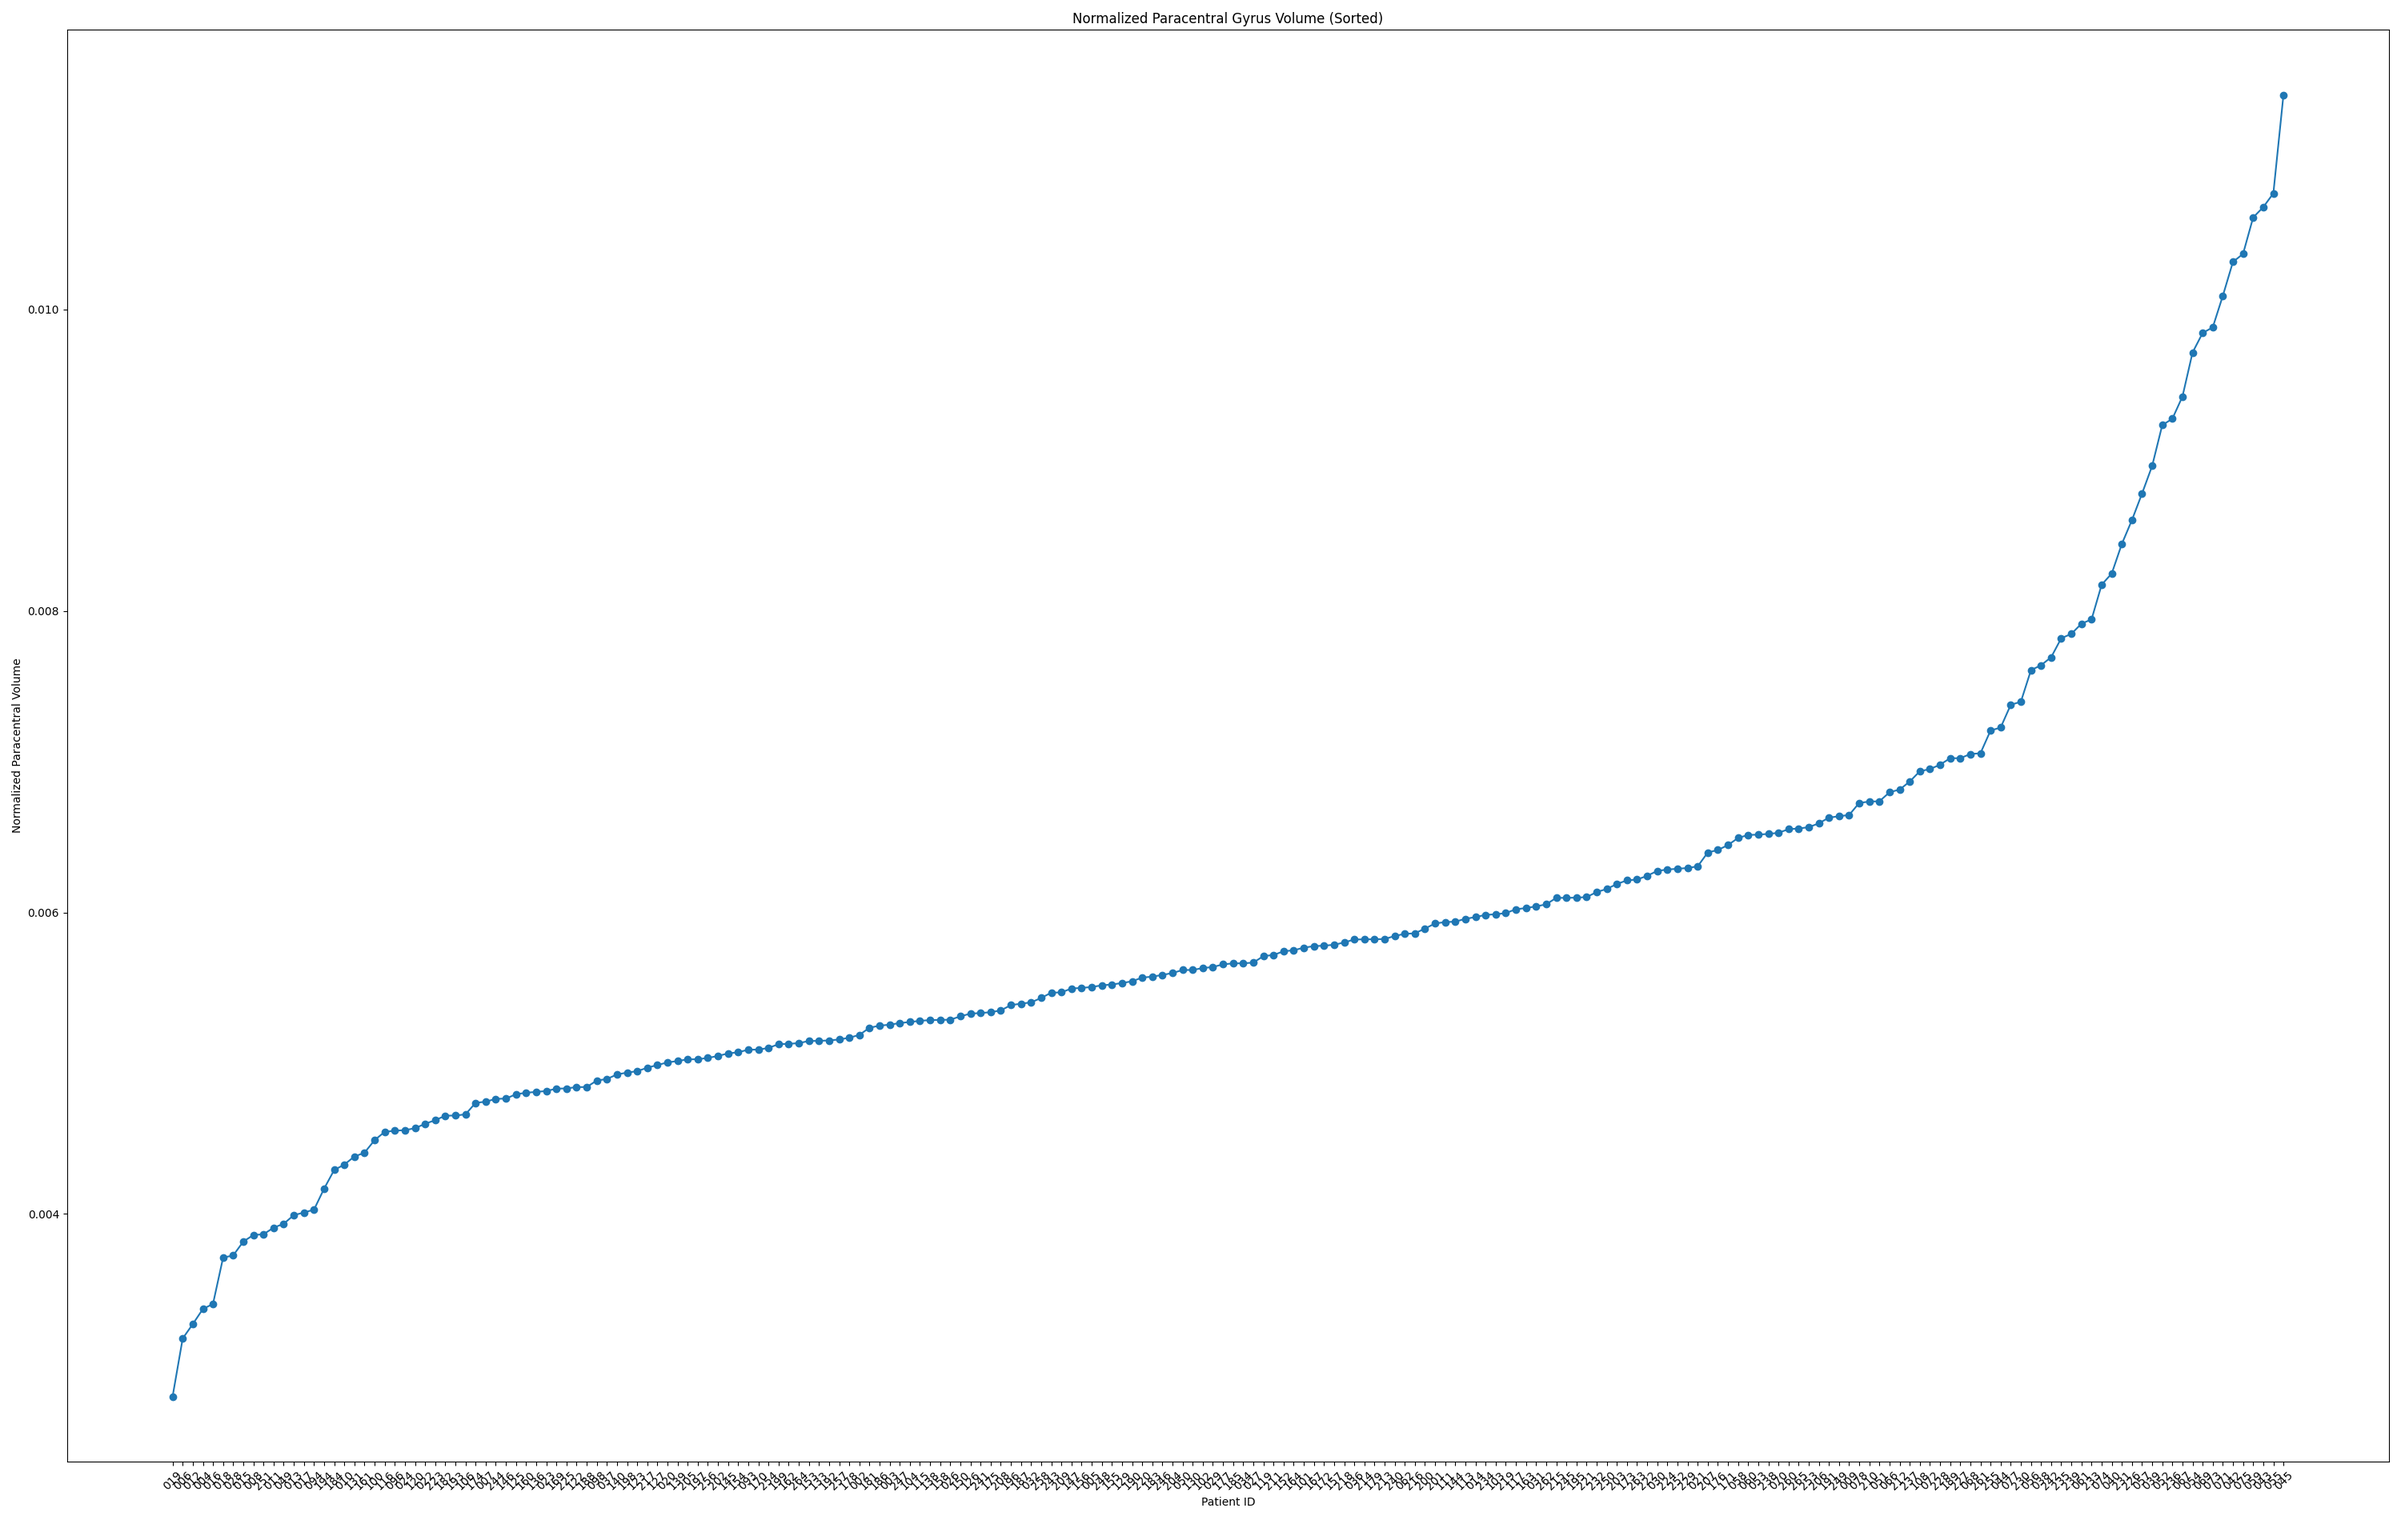
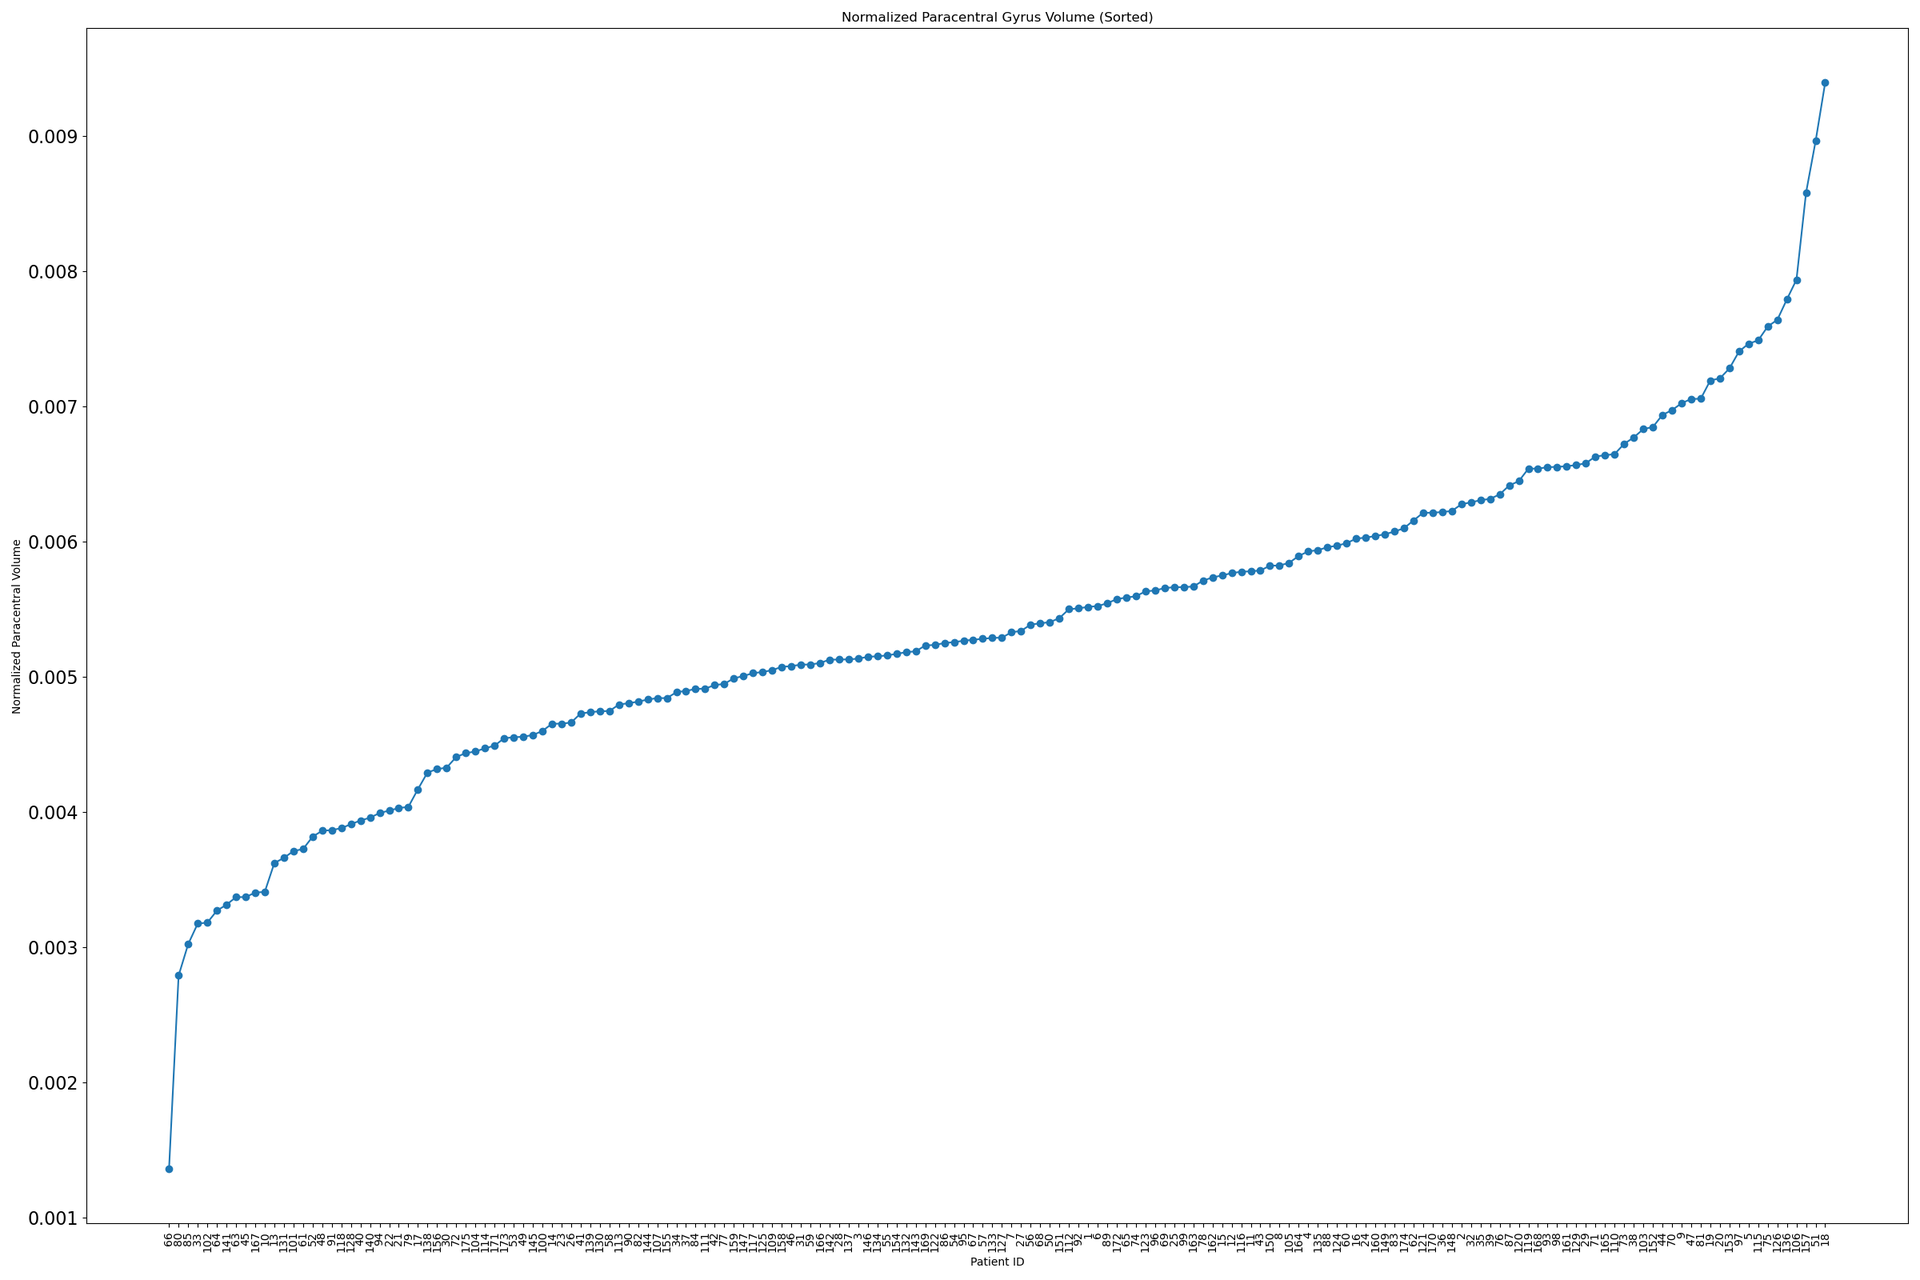
Update v1.4

diff --git a/code/visualisation_scripts/Volume_analysis.py b/code/visualisation_scripts/Volume_analysis.py
@@ -1,0 +1,101 @@
+import os
+import re
+import csv
+import matplotlib.pyplot as plt
+
+def extract_data(file_path):
+    # Initialize variables to store extracted values
+    paracentral_vol = None
+    precentral_vol = None
+    etiv = None
+
+    # Read the file and extract the needed values
+    with open(file_path, 'r') as f:
+        for line in f:
+            if 'paracentral' in line:
+                paracentral_vol = float(line.split()[3])
+            elif 'precentral' in line:
+                precentral_vol = float(line.split()[3])
+            elif 'EstimatedTotalIntraCranialVol' in line:
+                etiv = float(line.split()[8].strip(','))
+
+    return paracentral_vol, precentral_vol, etiv
+
+def plot_sorted_data(patient_ids, normalized_values, title, ylabel, dest_folder, filename):
+    # Sort data
+    sorted_data = sorted(zip(patient_ids, normalized_values), key=lambda x: x[1])
+    sorted_patient_ids, sorted_normalized_values = zip(*sorted_data)
+
+    # Plotting
+    plt.figure(figsize=(20, 12))
+    plt.plot(sorted_patient_ids, sorted_normalized_values, marker='o')
+    plt.xlabel('Patient ID')
+    plt.ylabel(ylabel)
+    plt.title(title)
+    plt.xticks(rotation=45)
+    plt.tight_layout()
+
+    # Save the plot
+    plot_path = os.path.join(dest_folder, filename)
+    plt.savefig(plot_path)
+    plt.show()
+
+def process_files(csv_file, src_root, dest_folder):
+    data = {}
+
+    # Open the CSV file and read the folder names and labels
+    with open(csv_file, 'r') as f:
+        reader = csv.DictReader(f)
+        for row in reader:
+            folder = row['folder']
+            folder_path = os.path.join(src_root, folder)  # Construct the folder path
+
+            stats_dir = os.path.join(folder_path, 'stats')
+            mri_dir = os.path.join(folder_path, 'mri')
+
+            lh_stats_file = os.path.join(stats_dir, 'lh.aparc.DKTatlas.mapped.stats')
+            rh_stats_file = os.path.join(stats_dir, 'rh.aparc.DKTatlas.mapped.stats')
+
+            if os.path.exists(lh_stats_file) and os.path.exists(rh_stats_file):
+                lh_paracentral_vol, lh_precentral_vol, lh_etiv = extract_data(lh_stats_file)
+                rh_paracentral_vol, rh_precentral_vol, rh_etiv = extract_data(rh_stats_file)
+
+                # Sum volumes from left and right hemispheres
+                paracentral_vol = lh_paracentral_vol + rh_paracentral_vol
+                precentral_vol = lh_precentral_vol + rh_precentral_vol
+                etiv = lh_etiv  # eTIV should be the same in both files, use either
+
+                data[folder] = {
+                    'paracentral': paracentral_vol,
+                    'precentral': precentral_vol,
+                    'etiv': etiv
+                }
+
+    # Prepare data for plotting
+    patient_ids = list(data.keys())
+    normalized_paracentral = [data[pid]['paracentral'] / data[pid]['etiv'] for pid in patient_ids]
+    normalized_precentral = [data[pid]['precentral'] / data[pid]['etiv'] for pid in patient_ids]
+
+    # Plot sorted data separately for paracentral and precentral
+    plot_sorted_data(patient_ids, normalized_paracentral,
+                     title='Normalized Paracentral Gyrus Volume (Sorted)',
+                     ylabel='Normalized Paracentral Volume',
+                     dest_folder=dest_folder,
+                     filename='sorted_paracentral_volumes.png')
+
+    plot_sorted_data(patient_ids, normalized_precentral,
+                     title='Normalized Precentral Gyrus Volume (Sorted)',
+                     ylabel='Normalized Precentral Volume',
+                     dest_folder=dest_folder,
+                     filename='sorted_precentral_volumes.png')
+
+# Define source and destination paths
+csv_file = '/path/to/your/csv_file.csv'  # Path to your CSV file
+src_root = '/MND_patients'
+dest_folder = '/path/to/output'
+
+# Make sure the destination folder exists
+os.makedirs(dest_folder, exist_ok=True)
+
+# Run the processing function
+process_files(csv_file, src_root, dest_folder)
